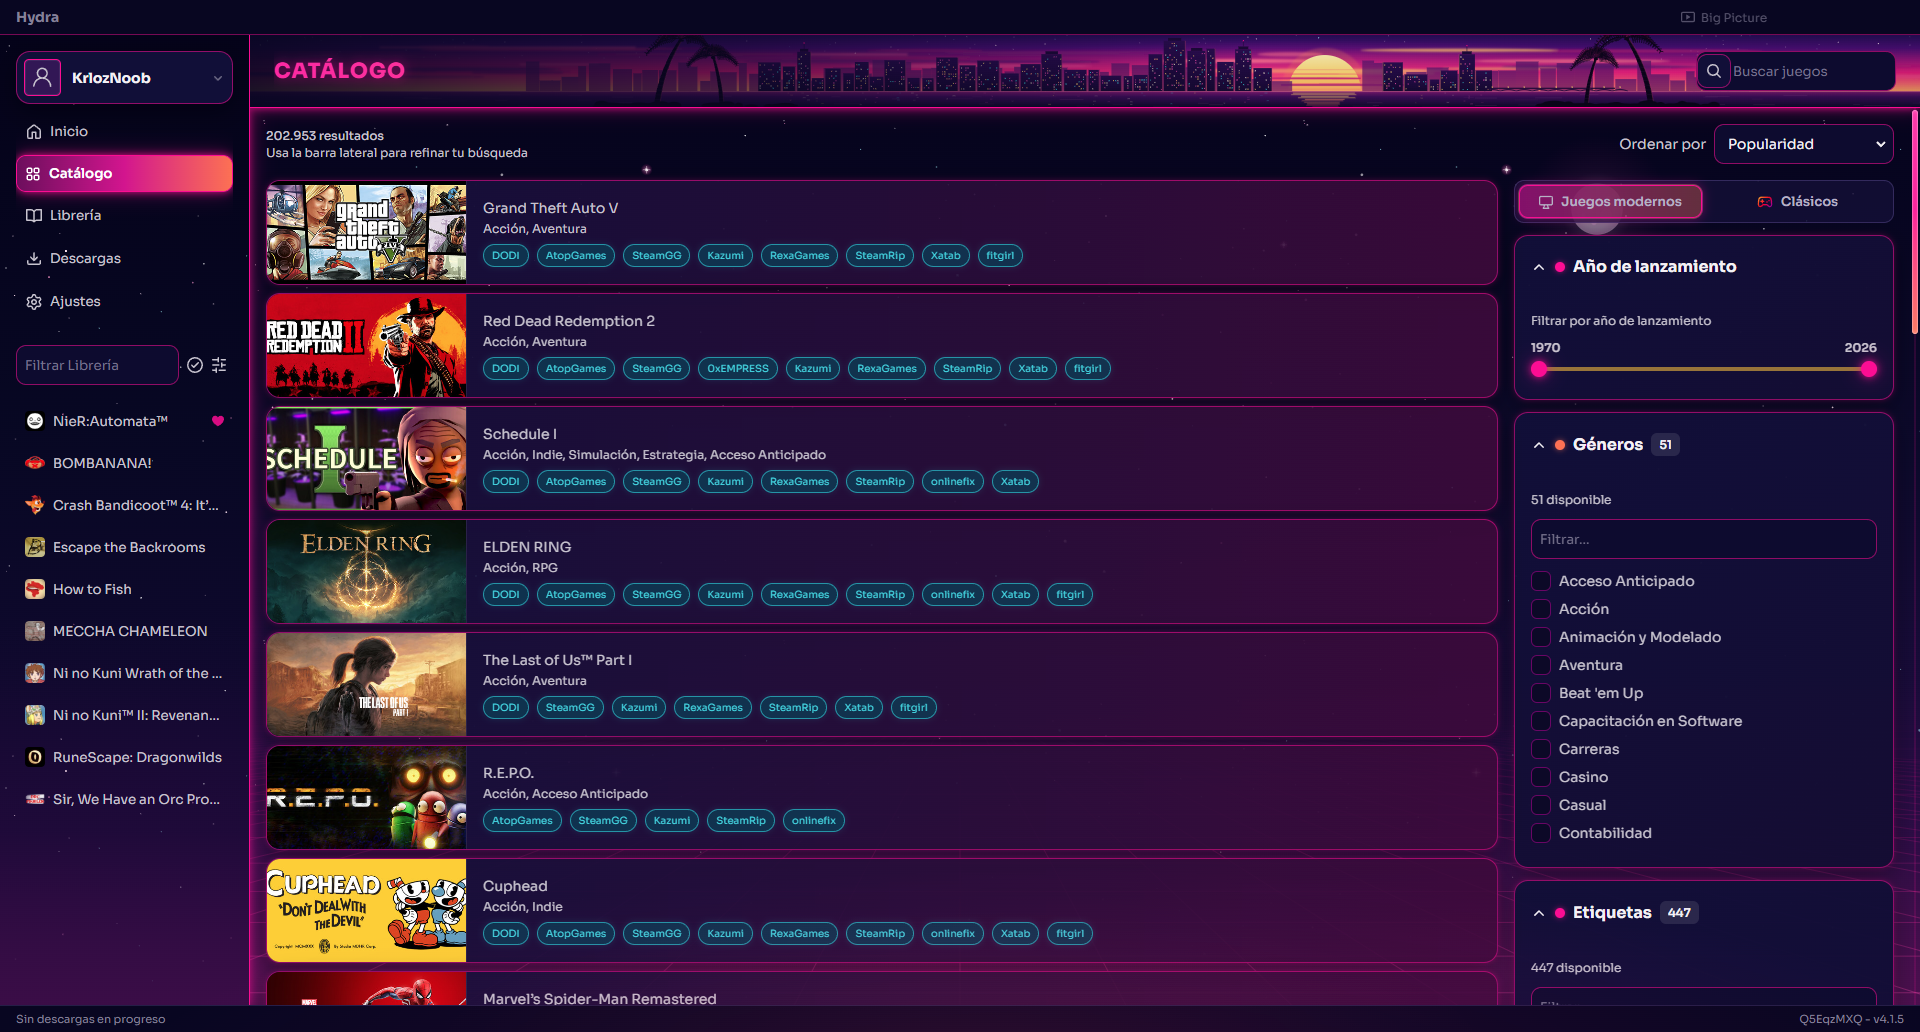
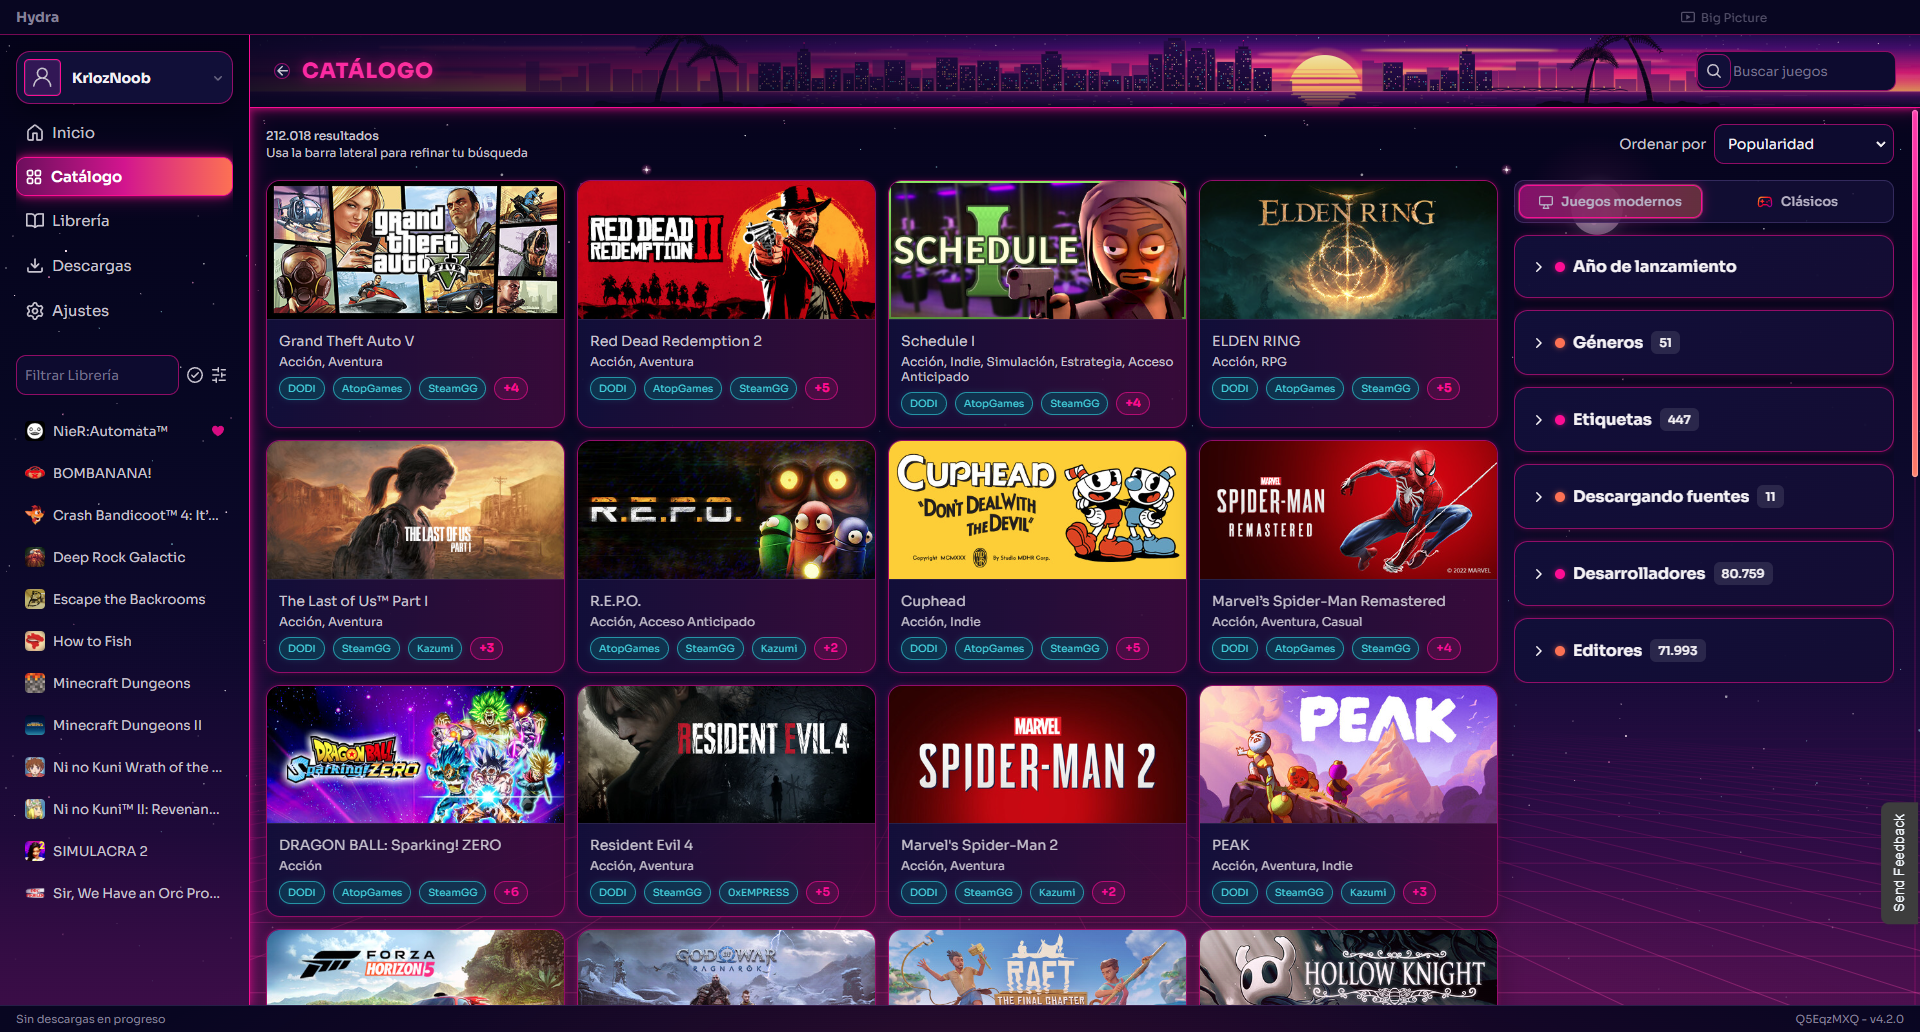
Update Vice City Nights theme (#782)
* Update Vice City Nights theme

* Update theme screenshot

* Address review: scope achievement rules, keyboard-open filters, responsive grid

diff --git a/themes/Vice City Nights-rQLgLd6y/theme.css b/themes/Vice City Nights-rQLgLd6y/theme.css
@@ -1421,3 +1421,144 @@ body:not(:has(.sidebar))::after {
     animation: none !important;
   }
 }
+
+/* === catalogue grid view (added) === */
+.catalogue__games-container:not(.catalogue__games-container--classics) {
+  display: grid;
+  grid-template-columns: repeat(auto-fill, minmax(270px, 1fr));
+  gap: 12px;
+  align-content: start;
+}
+.catalogue__games-container:not(.catalogue__games-container--classics) > .catalogue__pagination-container,
+.catalogue__games-container:not(.catalogue__games-container--classics) > .catalogue__result-count {
+  grid-column: 1 / -1;
+}
+.game-item__content-link {
+  flex-direction: column;
+  align-items: stretch;
+  gap: 0;
+}
+.game-item__cover-wrapper {
+  width: 100%;
+  min-width: 0;
+  height: auto;
+  aspect-ratio: 460 / 215;
+  border-right: 0;
+  border-bottom: 1px solid rgba(255, 255, 255, 0.08);
+}
+.game-item__cover,
+.game-item__cover-placeholder {
+  width: 100%;
+  height: 100%;
+}
+.game-item__details {
+  padding: 12px;
+}
+/* === end catalogue grid view === */
+/* === catalogue sources: max 3 chips + "+N" === */
+.game-item__repackers {
+  position: relative;
+  counter-reset: extra;
+}
+.game-item__repackers > :nth-child(n+4) {
+  position: absolute;
+  visibility: hidden;
+  pointer-events: none;
+  counter-increment: extra;
+}
+.game-item__repackers:has(> :nth-child(4))::after {
+  content: "+" counter(extra);
+  padding: 2px 8px;
+  font-size: 12px;
+  font-weight: 700;
+  color: #ff1595;
+  border: 1px solid rgba(255, 21, 149, 0.6);
+  border-radius: 999px;
+  background: rgba(255, 21, 149, 0.12);
+}
+/* === end catalogue sources === */
+
+/* === sidebar main menu bigger (added) === */
+.sidebar__menu-item:not(.sidebar__section--games *) .sidebar__menu-item-button {
+  font-size: 15px;
+  padding-top: 9px;
+  padding-bottom: 9px;
+}
+.sidebar__menu-item:not(.sidebar__section--games *) .sidebar__menu-item-button-label {
+  font-size: 15px;
+}
+.sidebar__menu-item:not(.sidebar__section--games *) .sidebar__menu-item-button svg {
+  width: 18px;
+  height: 18px;
+}
+/* === end sidebar main menu === */
+
+/* === toast: icon + message on one line (added) === */
+.toast__message-container {
+  display: grid !important;
+  grid-template-columns: auto 1fr auto;
+  align-items: center;
+  column-gap: 12px;
+  row-gap: 0 !important;
+}
+.toast__message-container > div {
+  display: contents !important;
+}
+.toast__message-container > div > svg:first-child {
+  grid-column: 1;
+  grid-row: 1 / span 2;
+}
+.toast__message-container > div > span:empty {
+  display: none;
+}
+.toast__message-container > div > span,
+.toast__message-container > p {
+  grid-column: 2;
+  margin: 0;
+}
+.toast__message-container > div > .toast__close-button {
+  grid-column: 3;
+  grid-row: 1;
+}
+/* === end toast === */
+
+/* === achievement banner: more readable (added) === */
+/* scoped to the default variant so the rare / platinum / hidden rules above keep winning */
+.achievement-notification:not(.achievement-notification--platinum, .achievement-notification--hidden) .achievement-notification__container {
+  background: linear-gradient(90deg, rgba(8, 7, 34, 0.97) 0%, rgba(8, 7, 34, 0.97) 14%, rgba(12, 10, 40, 0.97) 86%, rgba(8, 7, 34, 0.97) 100%) !important;
+}
+.achievement-notification:not(.achievement-notification--rare, .achievement-notification--platinum, .achievement-notification--hidden) .achievement-notification__chip {
+  background: linear-gradient(90deg, #e51a9d, #ff1595, #ff704f) !important;
+  border-radius: 999px !important;
+}
+.achievement-notification:not(.achievement-notification--rare, .achievement-notification--platinum, .achievement-notification--hidden) .achievement-notification__chip__label {
+  color: #fff !important;
+}
+/* === end achievement banner === */
+
+/* === catalogue filters: sticky, closed by default, open on hover or keyboard focus (added) === */
+.catalogue__filters-container {
+  position: sticky;
+  top: 8px;
+  align-self: start;
+  max-height: calc(100vh - 120px);
+  overflow-y: auto;
+  overflow-anchor: none;
+}
+.catalogue__filters-container .filter-section__content {
+  max-height: 0 !important;
+  overflow: hidden !important;
+  transition: max-height 0.2s ease;
+}
+.catalogue__filters-container .filter-section:hover .filter-section__content,
+.catalogue__filters-container .filter-section:has(:focus-visible) .filter-section__content {
+  max-height: 380px !important;
+}
+.catalogue__filters-container .filter-section__chevron--open {
+  transform: rotate(-90deg);
+}
+.catalogue__filters-container .filter-section:hover .filter-section__chevron--open,
+.catalogue__filters-container .filter-section:has(:focus-visible) .filter-section__chevron--open {
+  transform: none;
+}
+/* === end catalogue filters === */
